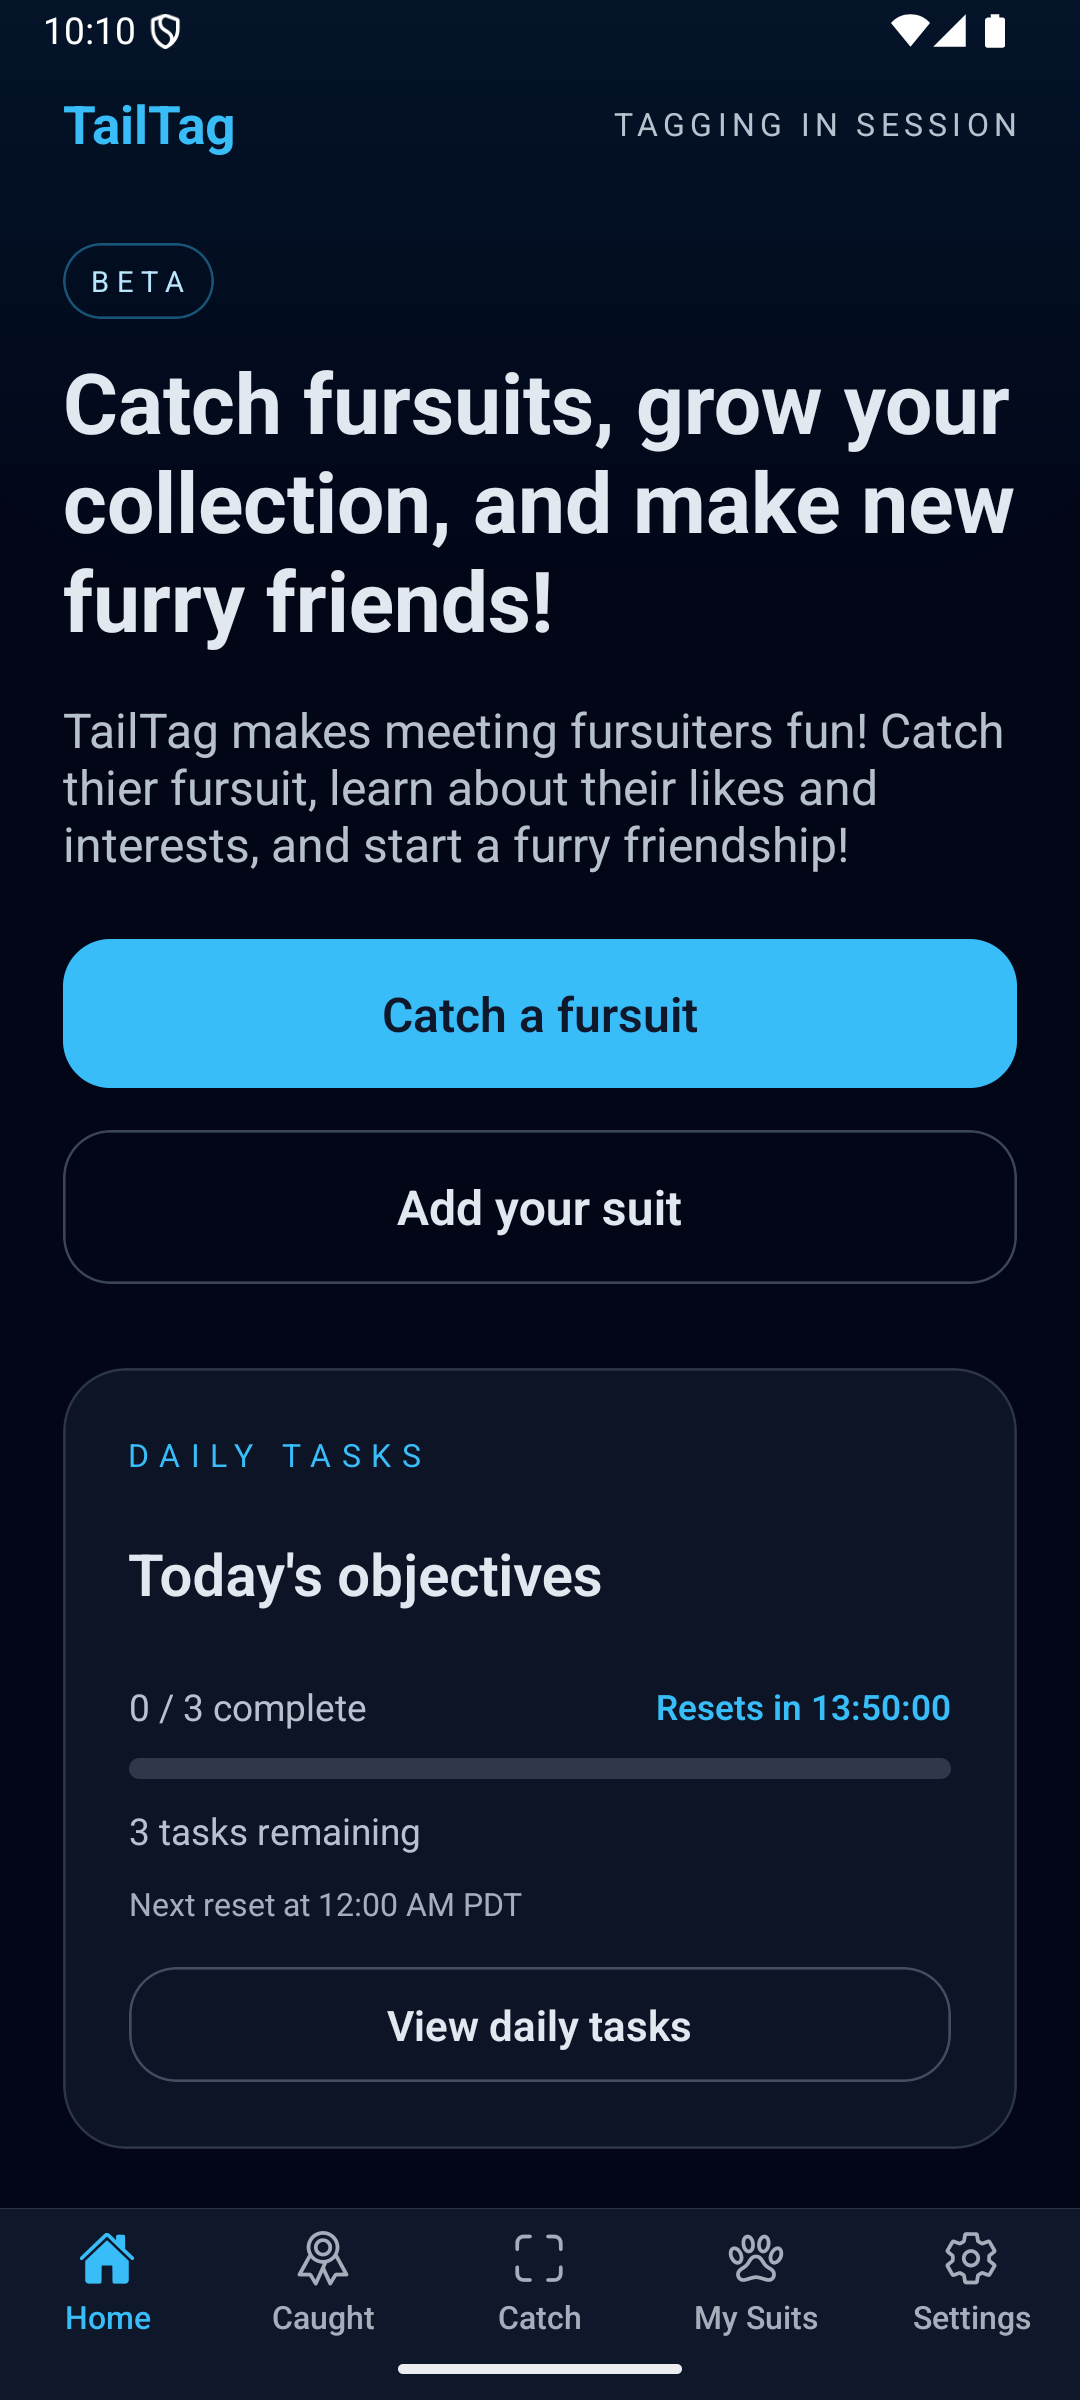
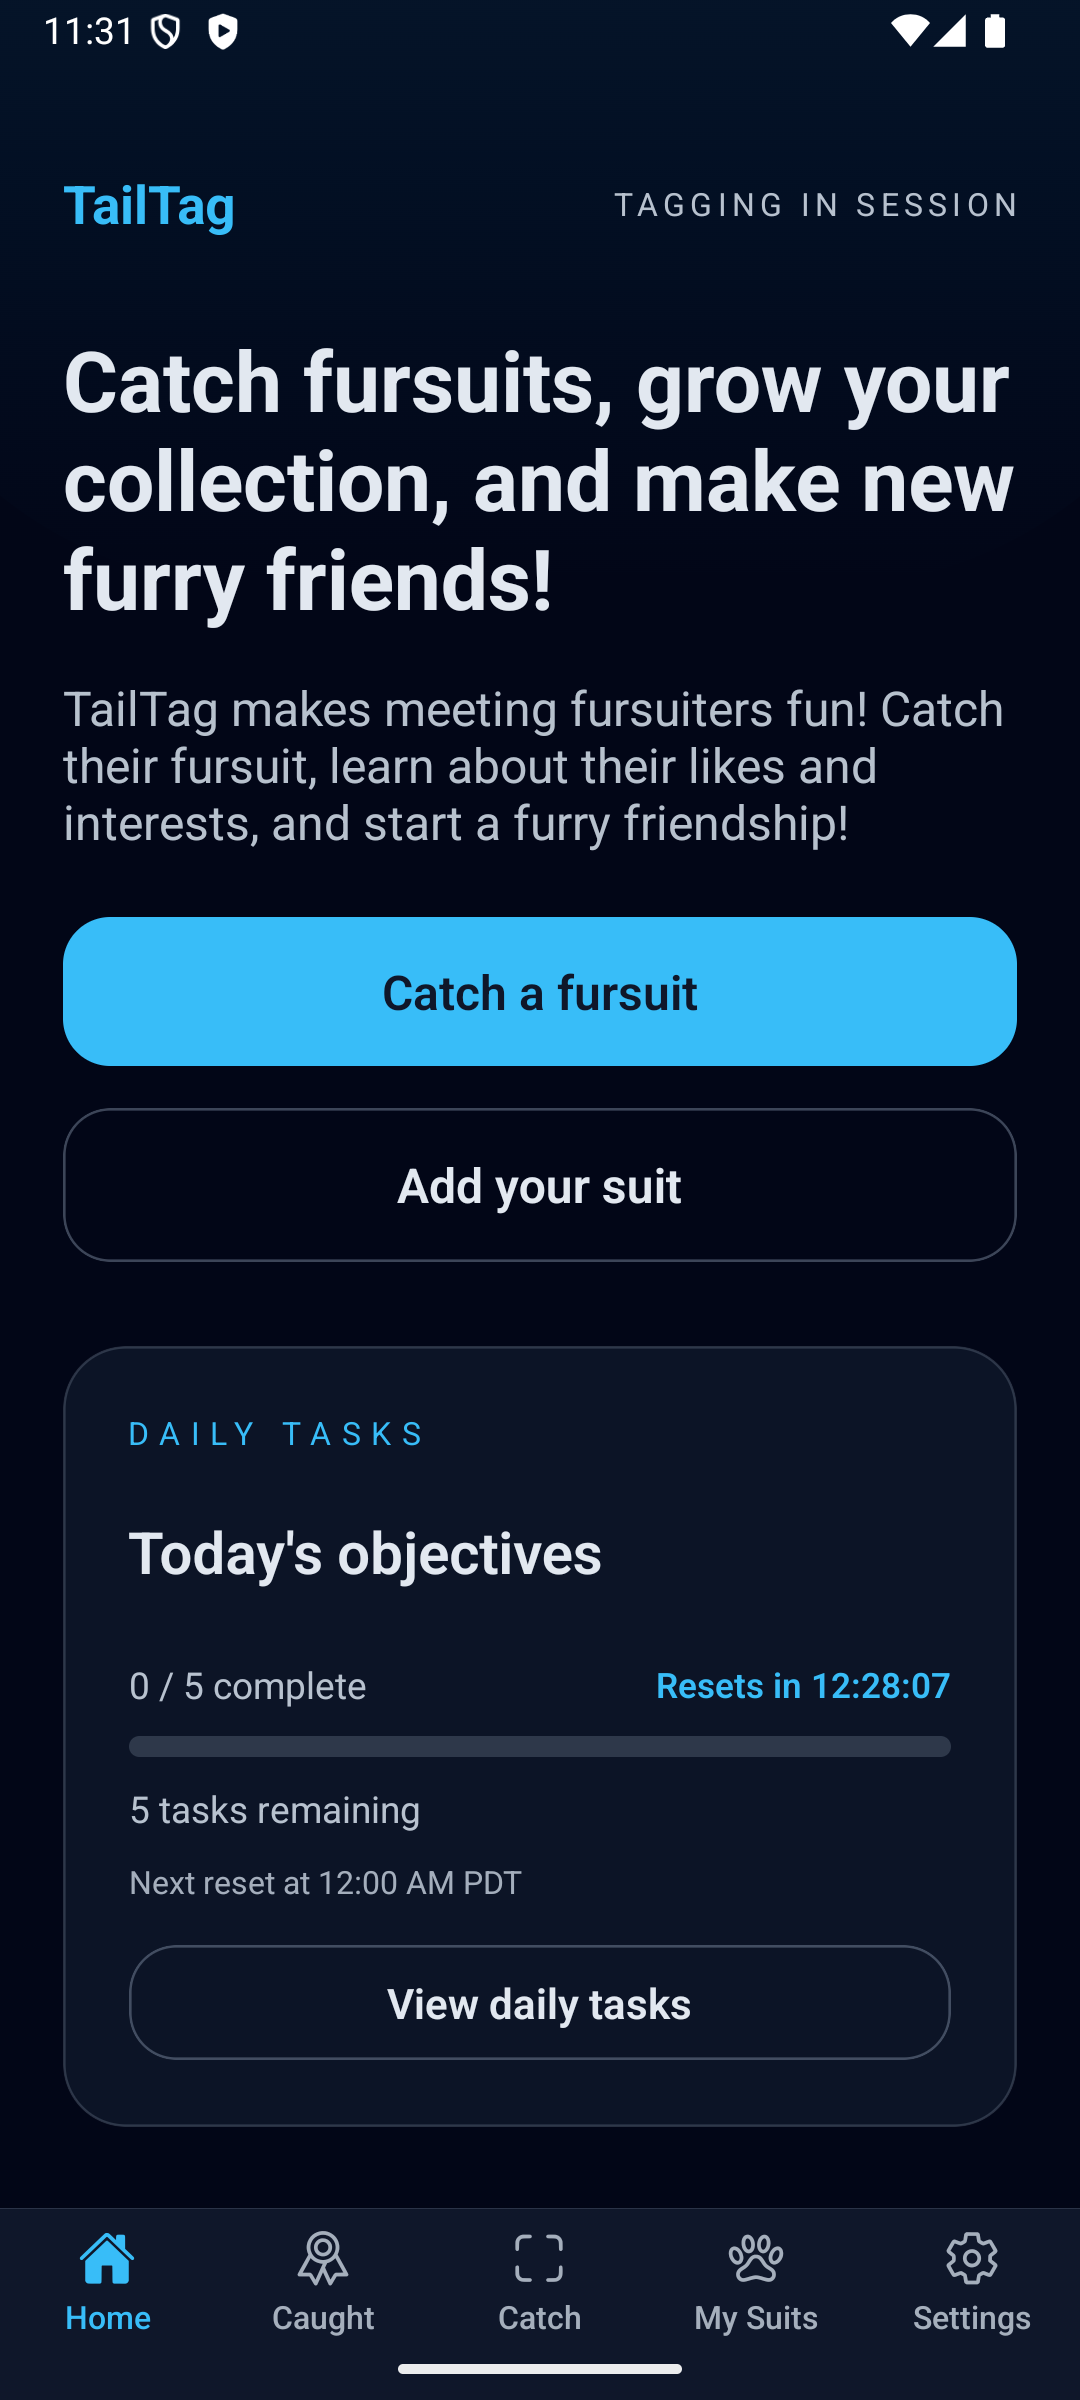
Add store screenshot assets

diff --git a/src/components/EnvironmentBanner.tsx b/src/components/EnvironmentBanner.tsx
@@ -14,6 +14,10 @@ function isKnownEnv(env: string | undefined): env is KnownEnv {
 }
 
 export function EnvironmentBanner() {
+  if (process.env.EXPO_PUBLIC_SCREENSHOT_MODE === 'true') {
+    return null;
+  }
+
   const insets = useSafeAreaInsets();
 
   if (!isKnownEnv(APP_ENV)) {

diff --git a/app/(tabs)/index.tsx b/app/(tabs)/index.tsx
@@ -913,7 +913,6 @@ export default function HomeScreen() {
         </View>
 
         <View style={[styles.heroBlock, contentWidthStyle]}>
-          <Text style={styles.badge}>PRERELEASE</Text>
           <Text style={styles.title}>
             Catch fursuits, grow your collection, and make new furry friends!
           </Text>